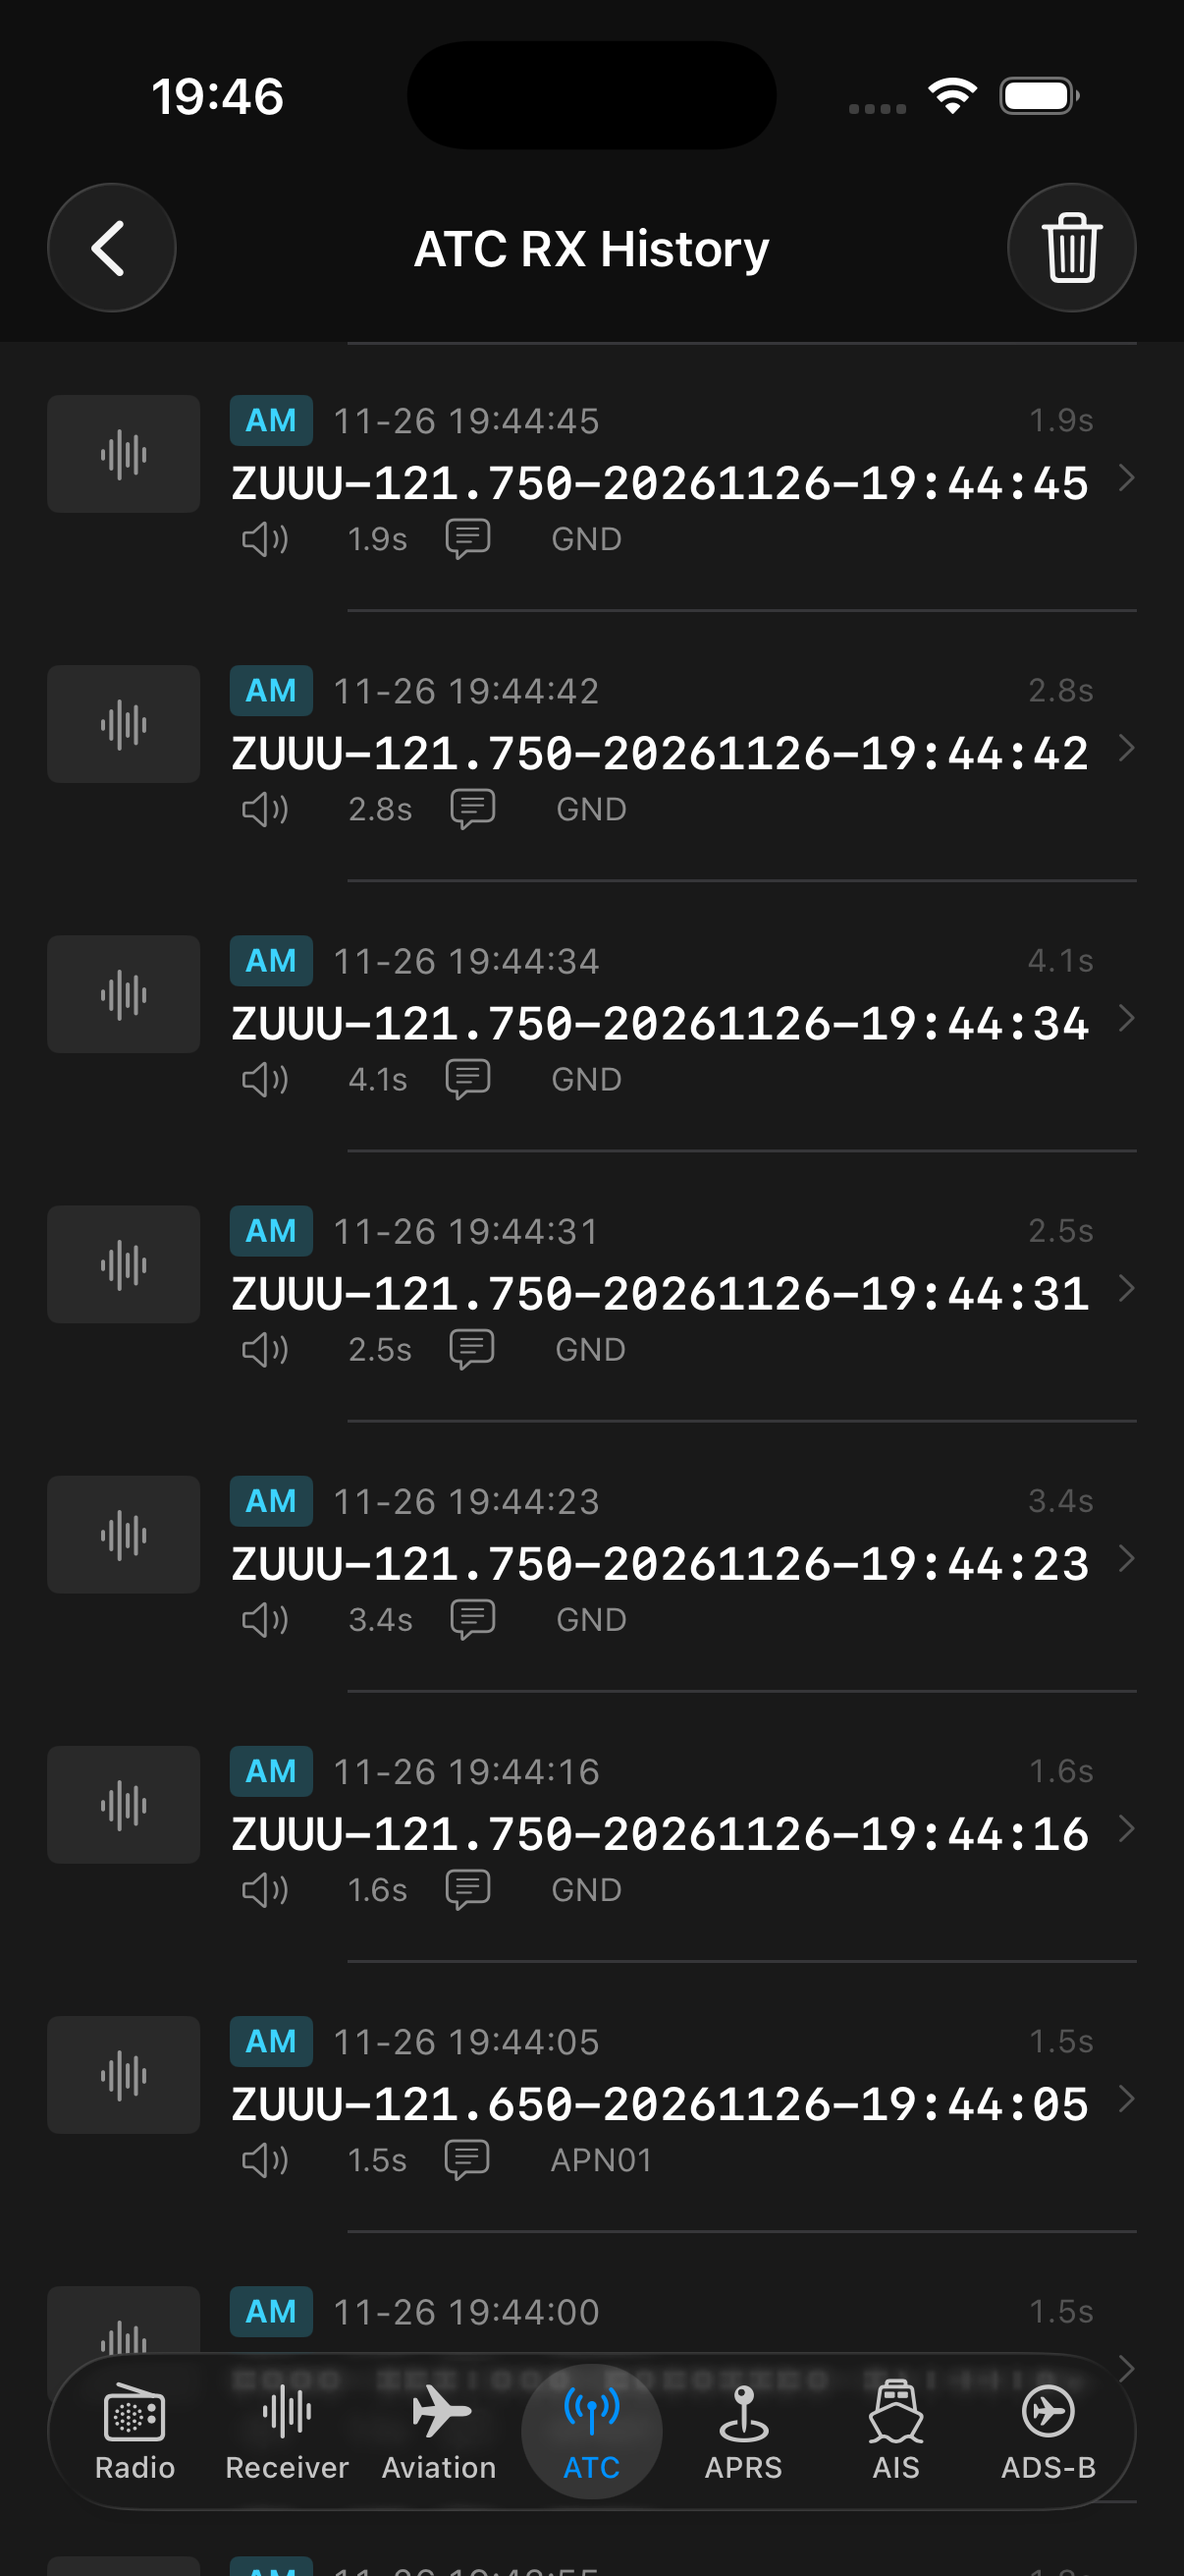
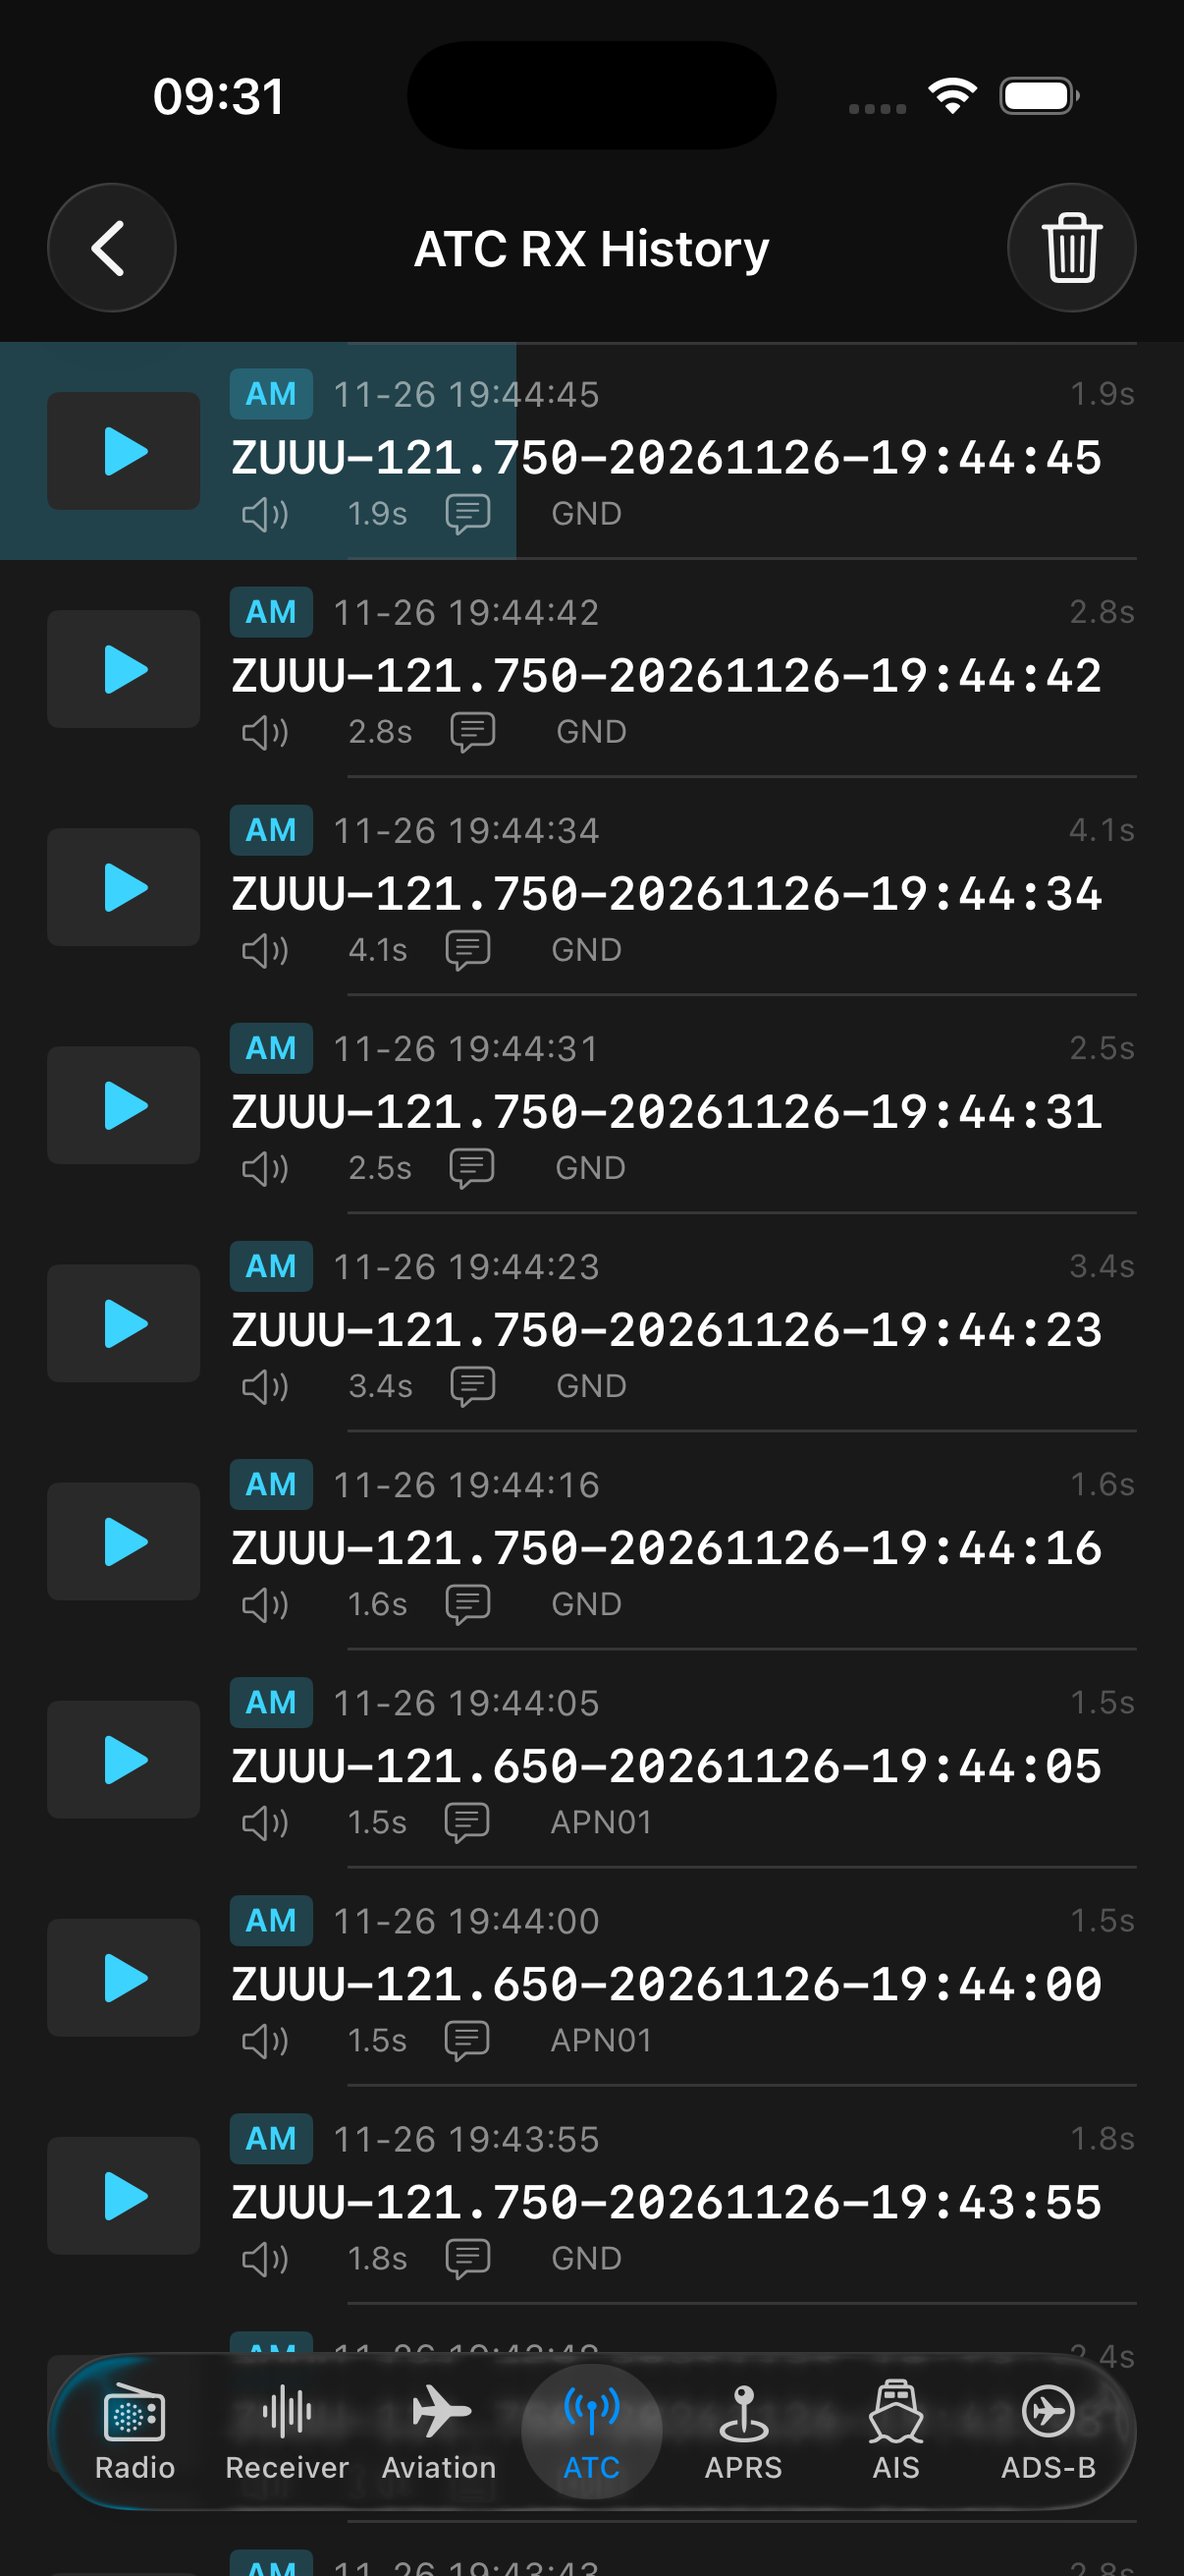
ATC history: tap to play, progress fill, live audio muted during playback

diff --git a/docs/page-atc.html b/docs/page-atc.html
@@ -131,7 +131,7 @@
 <li>A frequency with a signal up for more than 30 seconds without a break is taken as interference: that stretch is deleted, the frequency is marked with an orange <b>IGN</b> and not recorded until the signal has been gone five seconds, then it comes back by itself.</li>
 <li><b>ATIS</b> is a loop and is not recorded in the background; it is recorded while you are listening to it, in five-minute pieces.</li>
 </ul>
-<figure class="phone"><img class="shot" src="img/atc-history.png" alt="ATC RX History: recordings named by airport and frequency"><figcaption>The clock at the top right opens <b>ATC RX History</b>, which lists only ATC recordings; its trash deletes only those.</figcaption></figure>
+<figure class="phone"><img class="shot" src="img/atc-history.png" alt="ATC RX History: recordings named by airport and frequency"><figcaption>The clock at the top right opens <b>ATC RX History</b>, which lists only ATC recordings; its trash deletes only those. Tap a row to play it and again to pause; the button on the left shows which, and the row fills as it plays. While a recording plays the live receiver is muted — recording carries on — and it comes back when playback stops.</figcaption></figure>
 
 <div class="pager">
 <a href="page-aviation.html"><small>Previous</small>Aviation</a>

diff --git a/src/en/page-atc.html b/src/en/page-atc.html
@@ -82,4 +82,4 @@
 <li>A frequency with a signal up for more than 30 seconds without a break is taken as interference: that stretch is deleted, the frequency is marked with an orange <b>IGN</b> and not recorded until the signal has been gone five seconds, then it comes back by itself.</li>
 <li><b>ATIS</b> is a loop and is not recorded in the background; it is recorded while you are listening to it, in five-minute pieces.</li>
 </ul>
-<figure class="phone"><img class="shot" src="img/atc-history.png" alt="ATC RX History: recordings named by airport and frequency"><figcaption>The clock at the top right opens <b>ATC RX History</b>, which lists only ATC recordings; its trash deletes only those.</figcaption></figure>
+<figure class="phone"><img class="shot" src="img/atc-history.png" alt="ATC RX History: recordings named by airport and frequency"><figcaption>The clock at the top right opens <b>ATC RX History</b>, which lists only ATC recordings; its trash deletes only those. Tap a row to play it and again to pause; the button on the left shows which, and the row fills as it plays. While a recording plays the live receiver is muted — recording carries on — and it comes back when playback stops.</figcaption></figure>

diff --git a/docs/zh/page-atc.html b/docs/zh/page-atc.html
@@ -131,7 +131,7 @@
 <li>一个频率连续 30 秒以上一直有信号，当作干扰：这段删掉，频率上标一个橙色的 <b>IGN</b>，暂时不录；等这个信号消失 5 秒后自动恢复。</li>
 <li><b>ATIS</b> 是循环广播，后台不录；你点了某个 ATIS 频率在听的时候才录它，按 5 分钟一段保存。</li>
 </ul>
-<figure class="phone"><img class="shot" src="../img/atc-history.png" alt="ATC RX History：按机场和频率命名的录音列表"><figcaption>右上角的时钟图标打开 <b>ATC RX History</b>，这里只列 ATC 的录音，右上角的垃圾桶也只删这些。</figcaption></figure>
+<figure class="phone"><img class="shot" src="../img/atc-history.png" alt="ATC RX History：按机场和频率命名的录音列表"><figcaption>右上角的时钟图标打开 <b>ATC RX History</b>，这里只列 ATC 的录音，右上角的垃圾桶也只删这些。点一条就播放，再点暂停；左侧按钮显示播放还是暂停，整行的底色就是播放进度。回放时接收机的声音自动静音，录音照常进行，播完恢复。</figcaption></figure>
 
 <div class="pager">
 <a href="page-aviation.html"><small>上一篇</small>Aviation 航空数据链</a>

diff --git a/src/zh/page-atc.html b/src/zh/page-atc.html
@@ -82,4 +82,4 @@
 <li>一个频率连续 30 秒以上一直有信号，当作干扰：这段删掉，频率上标一个橙色的 <b>IGN</b>，暂时不录；等这个信号消失 5 秒后自动恢复。</li>
 <li><b>ATIS</b> 是循环广播，后台不录；你点了某个 ATIS 频率在听的时候才录它，按 5 分钟一段保存。</li>
 </ul>
-<figure class="phone"><img class="shot" src="img/atc-history.png" alt="ATC RX History：按机场和频率命名的录音列表"><figcaption>右上角的时钟图标打开 <b>ATC RX History</b>，这里只列 ATC 的录音，右上角的垃圾桶也只删这些。</figcaption></figure>
+<figure class="phone"><img class="shot" src="img/atc-history.png" alt="ATC RX History：按机场和频率命名的录音列表"><figcaption>右上角的时钟图标打开 <b>ATC RX History</b>，这里只列 ATC 的录音，右上角的垃圾桶也只删这些。点一条就播放，再点暂停；左侧按钮显示播放还是暂停，整行的底色就是播放进度。回放时接收机的声音自动静音，录音照常进行，播完恢复。</figcaption></figure>
